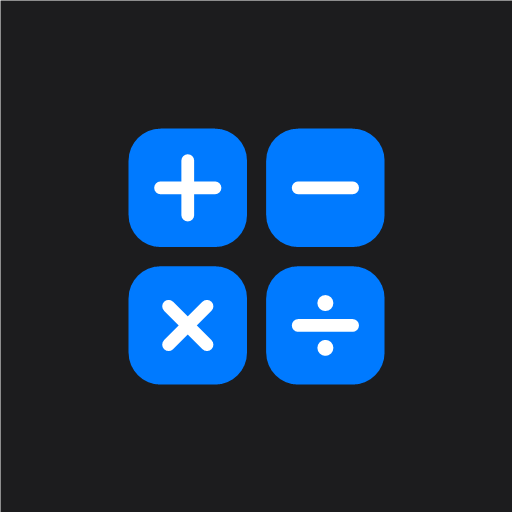
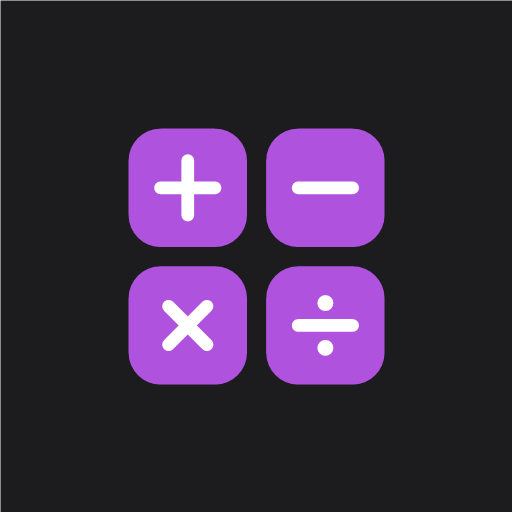
보라색 테마 적용 및 새 버전 자동 실행
- 연산자 버튼과 앱 아이콘을 보라색으로 변경 (라이트 #af52de, 다크 #bf5af2)
- 앱 화면이 다시 보일 때 새 버전을 확인하고, 있으면 자동 새로고침
  (아이폰 홈 화면 앱이 옛 버전에 머무는 문제 해결)
- 설치 시 서버에서 최신 파일을 받아 캐시 (cache: 'reload')
- 캐시 버전 v4

Changed region(s): [[0.25, 0.25, 0.75, 0.75]]

diff --git a/app.js b/app.js
@@ -315,11 +315,41 @@ render();
 
 // ---------------------------------------------------------------------
 // 서비스 워커 등록 (오프라인 동작 + 앱 설치를 위해 필요)
+// + 새 버전 자동 적용
+//
+// 아이폰 홈 화면 앱은 닫았다 열어도 페이지를 새로 불러오지 않고
+// 멈춰 있던 화면을 그대로 이어서 보여주는 경우가 많아, 새 버전을 잘 못 받습니다.
+// 그래서 앱 화면이 다시 보일 때마다 새 버전이 있는지 직접 확인하고,
+// 새 버전이 설치되면 화면을 한 번 새로고침해서 바로 새 버전으로 실행합니다.
+// (안드로이드·PC 에서도 똑같이 동작합니다)
 // ---------------------------------------------------------------------
 if ('serviceWorker' in navigator) {
+  // 처음 설치할 때는 새로고침하지 않도록, 이미 서비스 워커가 있었는지 기억
+  const hadController = Boolean(navigator.serviceWorker.controller);
+  let reloading = false;
+
+  // 새 버전 서비스 워커가 이 화면을 넘겨받으면 → 새로고침해서 새 파일로 실행
+  navigator.serviceWorker.addEventListener('controllerchange', () => {
+    if (!hadController || reloading) return;
+    reloading = true;
+    window.location.reload();
+  });
+
   window.addEventListener('load', () => {
     navigator.serviceWorker
       .register('./sw.js')
+      .then((registration) => {
+        const checkForUpdate = () => registration.update().catch(() => {});
+
+        // 앱으로 다시 돌아왔을 때(홈 화면에서 다시 열기, 다른 앱에서 돌아오기)
+        document.addEventListener('visibilitychange', () => {
+          if (document.visibilityState === 'visible') checkForUpdate();
+        });
+        // 아이폰 사파리가 멈춰 둔 화면을 다시 보여줄 때
+        window.addEventListener('pageshow', (event) => {
+          if (event.persisted) checkForUpdate();
+        });
+      })
       .catch((error) => console.error('서비스 워커 등록 실패:', error));
   });
 }

diff --git a/sw.js b/sw.js
@@ -5,7 +5,7 @@
 //   (v1 → v2) 그래야 사용자 기기에 저장된 옛 파일이 새 파일로 바뀝니다.
 // =====================================================================
 
-const CACHE_VERSION = 'v3';
+const CACHE_VERSION = 'v4';
 const CACHE_NAME = `pwa-calculator-${CACHE_VERSION}`;
 
 // 저장해 둘 파일 목록 (GitHub Pages 하위 폴더에서도 동작하도록 ./ 상대경로)
@@ -23,10 +23,13 @@ const APP_FILES = [
 ];
 
 // 1) 설치: 파일들을 캐시에 저장
+//    cache: 'reload' → 브라우저에 남아 있는 옛 파일 말고, 서버에서 새로 받아서 저장
 self.addEventListener('install', (event) => {
   event.waitUntil(
     caches.open(CACHE_NAME)
-      .then((cache) => cache.addAll(APP_FILES))
+      .then((cache) => cache.addAll(
+        APP_FILES.map((url) => new Request(url, { cache: 'reload' }))
+      ))
       .then(() => self.skipWaiting())
   );
 });

diff --git a/style.css b/style.css
@@ -7,10 +7,10 @@
   --key-text: #111111;
   --func-bg: #d4d4d9;
   --func-text: #111111;
-  --op-bg: #007aff;
+  --op-bg: #af52de;
   --op-text: #ffffff;
   --op-active-bg: #ffffff;
-  --op-active-text: #007aff;
+  --op-active-text: #af52de;
   --error-text: #d70015;
   --shadow: 0 1px 2px rgba(0, 0, 0, 0.12);
 }
@@ -25,9 +25,9 @@
     --key-text: #ffffff;
     --func-bg: #a5a5a5;
     --func-text: #000000;
-    --op-bg: #0a84ff;
+    --op-bg: #bf5af2;
     --op-active-bg: #ffffff;
-    --op-active-text: #0a84ff;
+    --op-active-text: #bf5af2;
     --error-text: #ff6961;
     --shadow: none;
   }
